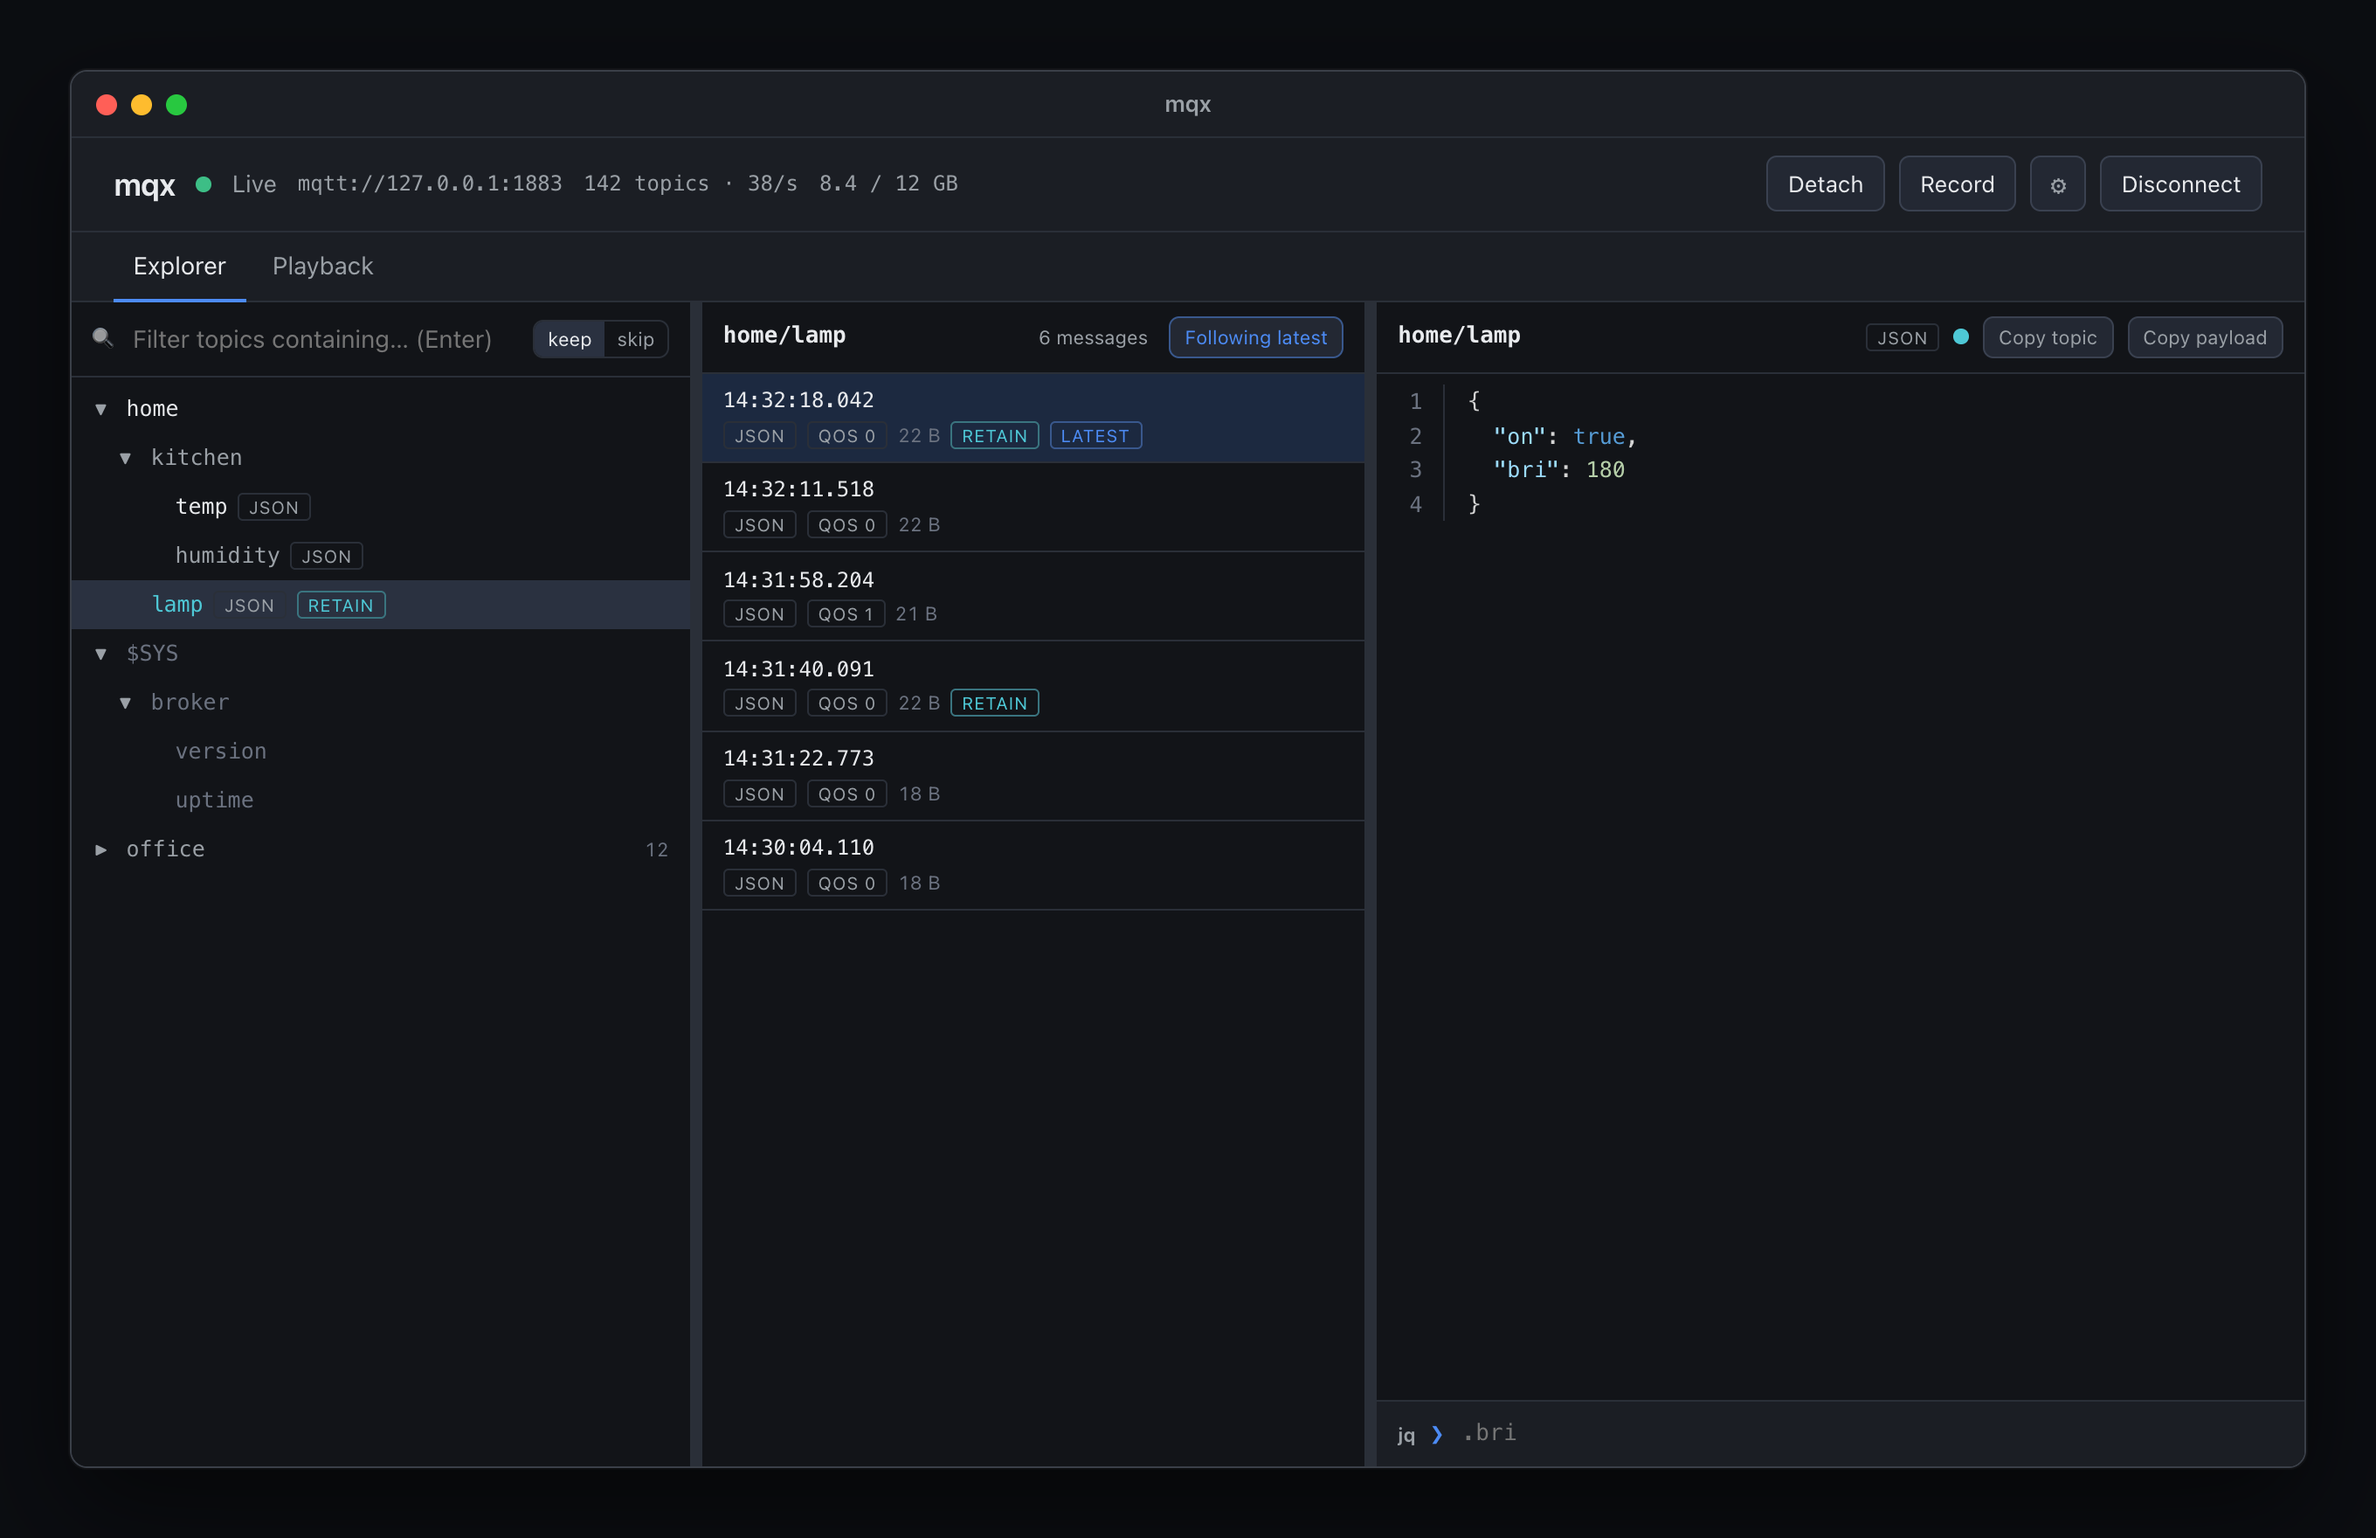
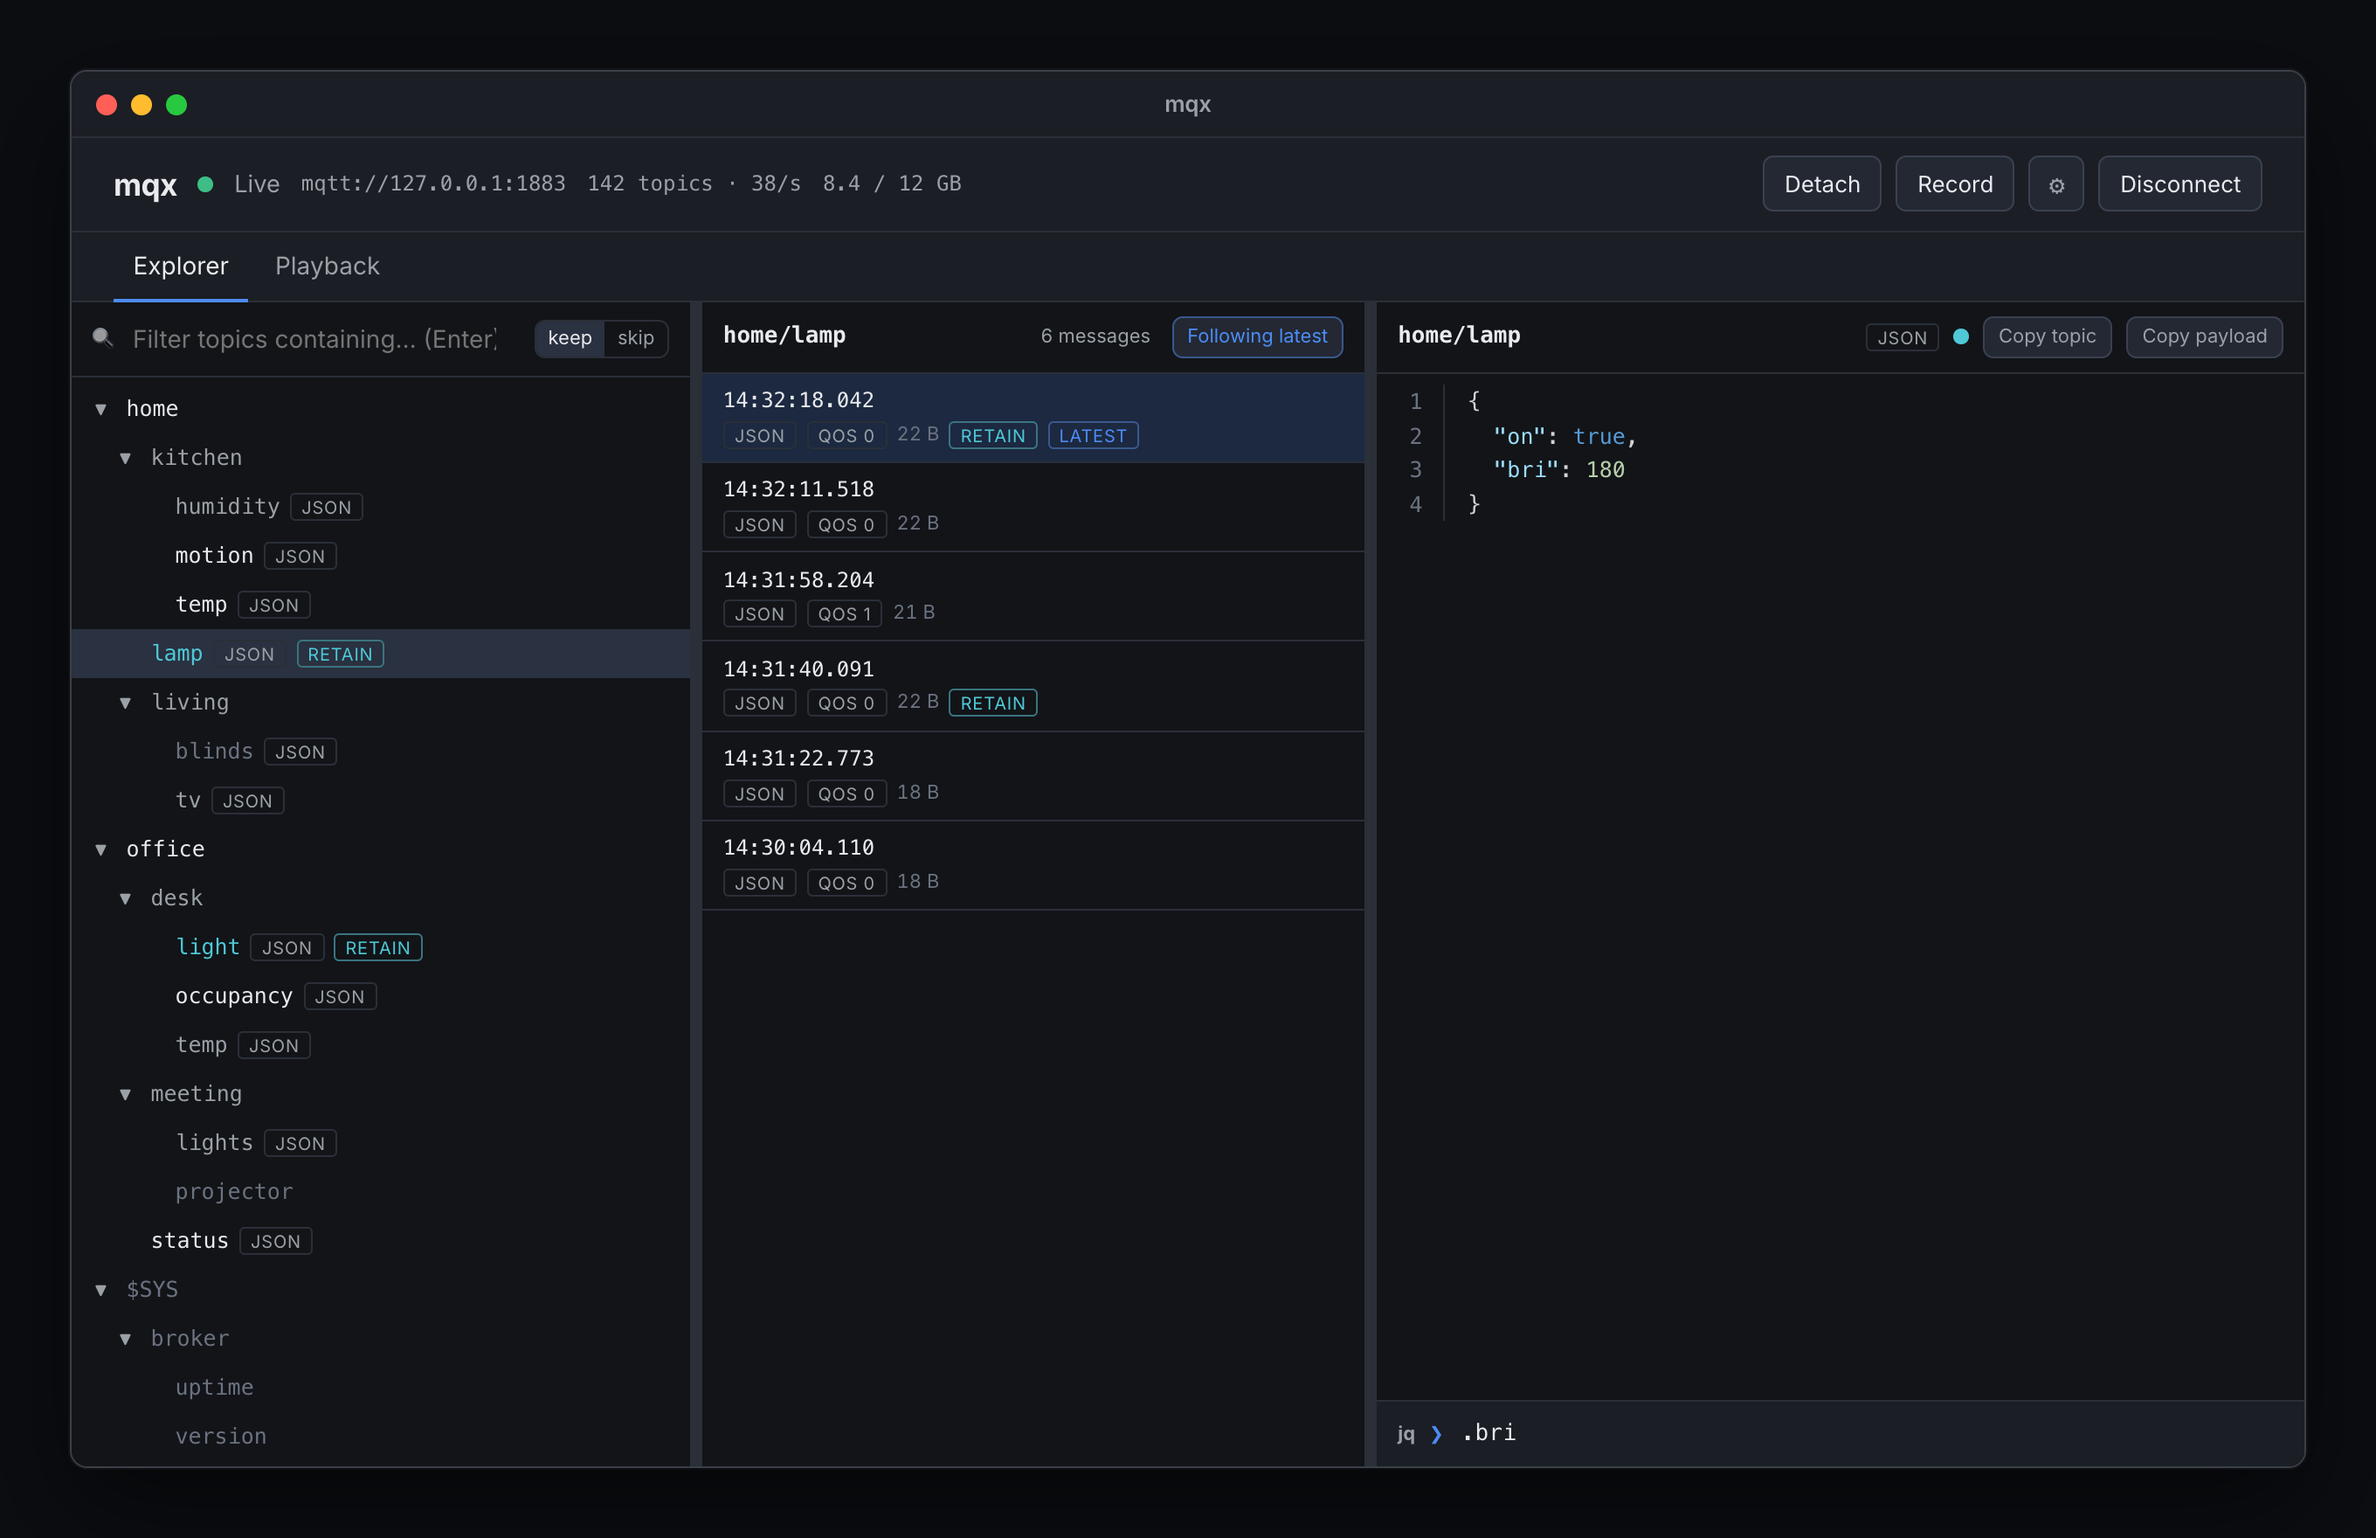
docs: showcase Explorer and replay in the README

diff --git a/README.md b/README.md
@@ -1,8 +1,18 @@
 # mqx
 
-mqx is a desktop MQTT explorer. Connect to a broker, watch the topic tree fill in as messages arrive, inspect payloads, and keep connection profiles (including TLS files) on disk.
+mqx is a desktop MQTT explorer. One window is one broker: connect, watch the topic tree fill as messages arrive, inspect payloads, and keep connection profiles (including TLS files) on disk. Passwords go in the OS keychain, or a private file when no keychain is available.
 
-One window is one broker. Saved profiles remember host, protocol, subscriptions, and TLS. JSON payloads pretty-print in place; jq filters and fuzzy topic search sit next to the tree. Passwords go in the OS keychain (or a private file when no keychain is available).
+## Explorer
+
+The topic tree fills in as publishes arrive. Search filters paths; pick a topic to scroll its history and inspect the payload. JSON pretty-prints in place, with jq on the same pane.
+
+![Explorer — topic tree, history, and payload inspector](docs/images/explorer.png)
+
+## Playback
+
+While connected, Record writes mqtt-trace JSONL (raw payloads). Playback publishes a capture onto the broker, including retain flags — that can change retained state on the target. Stay Live to watch the tree, or Detach to freeze the view; replay itself does not flip Live / Detached.
+
+![Playback — replaying a capture onto the connected broker](docs/images/playback.png)
 
 ## Install
 
@@ -20,23 +30,9 @@ Download the installer from the [latest GitHub Release](https://github.com/hauke
 
 The first builds are unsigned. macOS: right-click the app → Open. Windows: SmartScreen may warn; choose Run anyway. Linux aarch64 is not built yet.
 
-## Explorer
-
-The topic tree fills in as publishes arrive. Search filters paths; pick a topic to scroll its history and inspect the payload. JSON pretty-prints in place, with jq on the same pane.
-
-![Explorer](docs/images/explorer.png)
-
-## Playback
-
-While connected, Record writes mqtt-trace JSONL (raw payloads). The Playback tab lists captures and publishes them onto a broker, **including retain flags** — that can change retained state on the target.
-
-![Playback](docs/images/playback.png)
-
 **Live / Detached.** Detach freezes the **view**; Go live applies traffic received in the meantime, still under the RAM cap. Recording continues while Detached.
 
 **Topic history limit.** Settings has a RAM slider (4–128 GB, default 12 GB). Older extra messages drop first; each topic keeps at least its latest payload. That cap is the in-memory topic store, not the whole process.
-
-**Record and replay.** Replay does not flip Live / Detached; stay Live to watch the tree, or Detached to dump traffic without moving the view.
 
 ## Develop
 
